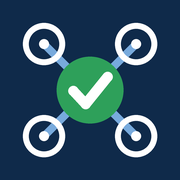
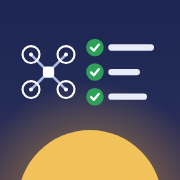
V3.2.3
v3.2.3: new preflight items (phone charged, visual observer, test photo, interference watch), merged GPS and home point item, new icon

diff --git a/index.html b/index.html
@@ -325,7 +325,7 @@
   <div class="header-top">
     <div>
       <h1>UAS Flight Checklists</h1>
-      <p>Free Drone Preflight Checklist · v3.2.2</p>
+      <p>Free Drone Preflight Checklist · v3.2.3</p>
     </div>
   </div>
   <div class="tabs" role="tablist" aria-label="Checklists">
@@ -596,7 +596,7 @@
       <div class="item" onclick="toggle(this)"><div class="check-circle"><svg class="check-icon" viewBox="0 0 12 12" fill="none"><polyline points="2,6 5,9 10,3" stroke="white" stroke-width="2" stroke-linecap="round" stroke-linejoin="round"/></svg></div><div class="item-text">Check NOTAMs at notams.aim.faa.gov — look for notices affecting your flight area</div></div>
       <div class="item" onclick="toggle(this)"><div class="check-circle"><svg class="check-icon" viewBox="0 0 12 12" fill="none"><polyline points="2,6 5,9 10,3" stroke="white" stroke-width="2" stroke-linecap="round" stroke-linejoin="round"/></svg></div><div class="item-text">All batteries fully charged</div></div>
       <div class="item" onclick="toggle(this)"><div class="check-circle"><svg class="check-icon" viewBox="0 0 12 12" fill="none"><polyline points="2,6 5,9 10,3" stroke="white" stroke-width="2" stroke-linecap="round" stroke-linejoin="round"/></svg></div><div class="item-text">Batteries inspected for damage — check for swelling, cracks, or corrosion</div></div>
-      <div class="item" onclick="toggle(this)"><div class="check-circle"><svg class="check-icon" viewBox="0 0 12 12" fill="none"><polyline points="2,6 5,9 10,3" stroke="white" stroke-width="2" stroke-linecap="round" stroke-linejoin="round"/></svg></div><div class="item-text">Controller fully charged</div></div>
+      <div class="item" onclick="toggle(this)"><div class="check-circle"><svg class="check-icon" viewBox="0 0 12 12" fill="none"><polyline points="2,6 5,9 10,3" stroke="white" stroke-width="2" stroke-linecap="round" stroke-linejoin="round"/></svg></div><div class="item-text">Controller and phone/tablet fully charged</div></div>
       <div class="item" onclick="toggle(this)"><div class="check-circle"><svg class="check-icon" viewBox="0 0 12 12" fill="none"><polyline points="2,6 5,9 10,3" stroke="white" stroke-width="2" stroke-linecap="round" stroke-linejoin="round"/></svg></div><div class="item-text">Strobes charged and packed</div></div>
       <div class="item" onclick="toggle(this)"><div class="check-circle"><svg class="check-icon" viewBox="0 0 12 12" fill="none"><polyline points="2,6 5,9 10,3" stroke="white" stroke-width="2" stroke-linecap="round" stroke-linejoin="round"/></svg></div><div class="item-text">Storage ready — confirm sufficient space available on SD card or internal storage</div></div>
       <div class="item" onclick="toggle(this)"><div class="check-circle"><svg class="check-icon" viewBox="0 0 12 12" fill="none"><polyline points="2,6 5,9 10,3" stroke="white" stroke-width="2" stroke-linecap="round" stroke-linejoin="round"/></svg></div><div class="item-text">Remote ID — if your drone requires an external module, confirm it is charged and attached</div></div>
@@ -612,6 +612,7 @@
     <div class="section-card">
       <div class="item" onclick="toggle(this)"><div class="check-circle"><svg class="check-icon" viewBox="0 0 12 12" fill="none"><polyline points="2,6 5,9 10,3" stroke="white" stroke-width="2" stroke-linecap="round" stroke-linejoin="round"/></svg></div><div class="item-text">PPE — put on safety vest, hard hat, steel toe boots as required for this site</div></div>
       <div class="item" onclick="toggle(this)"><div class="check-circle"><svg class="check-icon" viewBox="0 0 12 12" fill="none"><polyline points="2,6 5,9 10,3" stroke="white" stroke-width="2" stroke-linecap="round" stroke-linejoin="round"/></svg></div><div class="item-text">Notify property owner or site contact if applicable</div></div>
+      <div class="item" onclick="toggle(this)"><div class="check-circle"><svg class="check-icon" viewBox="0 0 12 12" fill="none"><polyline points="2,6 5,9 10,3" stroke="white" stroke-width="2" stroke-linecap="round" stroke-linejoin="round"/></svg></div><div class="item-text">Visual observer briefed — if you're using one</div></div>
       <div class="item" onclick="toggle(this)"><div class="check-circle"><svg class="check-icon" viewBox="0 0 12 12" fill="none"><polyline points="2,6 5,9 10,3" stroke="white" stroke-width="2" stroke-linecap="round" stroke-linejoin="round"/></svg></div><div class="item-text">Assess the area — obstacles, people, animals, power lines, trees</div></div>
       <div class="item" onclick="toggle(this)"><div class="check-circle"><svg class="check-icon" viewBox="0 0 12 12" fill="none"><polyline points="2,6 5,9 10,3" stroke="white" stroke-width="2" stroke-linecap="round" stroke-linejoin="round"/></svg></div><div class="item-text">Choose a clear, flat launch spot — away from people and obstacles</div></div>
       <div class="item" onclick="toggle(this)"><div class="check-circle"><svg class="check-icon" viewBox="0 0 12 12" fill="none"><polyline points="2,6 5,9 10,3" stroke="white" stroke-width="2" stroke-linecap="round" stroke-linejoin="round"/></svg></div><div class="item-text">Secondary landing zone identified — know your backup before arming</div></div>
@@ -624,12 +625,13 @@
       <div class="item" onclick="toggle(this)"><div class="check-circle"><svg class="check-icon" viewBox="0 0 12 12" fill="none"><polyline points="2,6 5,9 10,3" stroke="white" stroke-width="2" stroke-linecap="round" stroke-linejoin="round"/></svg></div><div class="item-text">Strobes — attach if flying near dusk, dawn, or low visibility conditions</div></div>
       <div class="item" onclick="toggle(this)"><div class="check-circle"><svg class="check-icon" viewBox="0 0 12 12" fill="none"><polyline points="2,6 5,9 10,3" stroke="white" stroke-width="2" stroke-linecap="round" stroke-linejoin="round"/></svg></div><div class="item-text">Power on controller first, then drone — confirm link established</div></div>
       <div class="item" onclick="toggle(this)"><div class="check-circle"><svg class="check-icon" viewBox="0 0 12 12" fill="none"><polyline points="2,6 5,9 10,3" stroke="white" stroke-width="2" stroke-linecap="round" stroke-linejoin="round"/></svg></div><div class="item-text">Wait 60 seconds for GPS lock — do not rush arming</div></div>
-      <div class="item" onclick="toggle(this)"><div class="check-circle"><svg class="check-icon" viewBox="0 0 12 12" fill="none"><polyline points="2,6 5,9 10,3" stroke="white" stroke-width="2" stroke-linecap="round" stroke-linejoin="round"/></svg></div><div class="item-text">GPS satellite count — confirm strong lock (10+ satellites) before arming</div></div>
+      <div class="item" onclick="toggle(this)"><div class="check-circle"><svg class="check-icon" viewBox="0 0 12 12" fill="none"><polyline points="2,6 5,9 10,3" stroke="white" stroke-width="2" stroke-linecap="round" stroke-linejoin="round"/></svg></div><div class="item-text">GPS satellite count and home point — confirm strong lock (10+ satellites) and that the home point is updated</div></div>
       <div class="item" onclick="toggle(this)"><div class="check-circle"><svg class="check-icon" viewBox="0 0 12 12" fill="none"><polyline points="2,6 5,9 10,3" stroke="white" stroke-width="2" stroke-linecap="round" stroke-linejoin="round"/></svg></div><div class="item-text">Set RTH altitude — above the tallest obstacle in the area</div></div>
       <div class="item" onclick="toggle(this)"><div class="check-circle"><svg class="check-icon" viewBox="0 0 12 12" fill="none"><polyline points="2,6 5,9 10,3" stroke="white" stroke-width="2" stroke-linecap="round" stroke-linejoin="round"/></svg></div><div class="item-text">Confirm active lens — if your drone has multiple cameras, verify the correct lens is selected</div></div>
       <div class="item" onclick="toggle(this)"><div class="check-circle"><svg class="check-icon" viewBox="0 0 12 12" fill="none"><polyline points="2,6 5,9 10,3" stroke="white" stroke-width="2" stroke-linecap="round" stroke-linejoin="round"/></svg></div><div class="item-text">Set camera — resolution, frame rate, exposure mode for the session</div></div>
       <div class="item" onclick="toggle(this)"><div class="check-circle"><svg class="check-icon" viewBox="0 0 12 12" fill="none"><polyline points="2,6 5,9 10,3" stroke="white" stroke-width="2" stroke-linecap="round" stroke-linejoin="round"/></svg></div><div class="item-text">Confirm recording format — color profile (Normal / D-Log / D-Log M) and file type (RAW, JPEG, or RAW+JPEG) set for intended use</div></div>
       <div class="item" onclick="toggle(this)"><div class="check-circle"><svg class="check-icon" viewBox="0 0 12 12" fill="none"><polyline points="2,6 5,9 10,3" stroke="white" stroke-width="2" stroke-linecap="round" stroke-linejoin="round"/></svg></div><div class="item-text">White balance — lock manually before flight; do not leave on Auto</div></div>
+      <div class="item" onclick="toggle(this)"><div class="check-circle"><svg class="check-icon" viewBox="0 0 12 12" fill="none"><polyline points="2,6 5,9 10,3" stroke="white" stroke-width="2" stroke-linecap="round" stroke-linejoin="round"/></svg></div><div class="item-text">Test photo or short clip — confirm it records and the exposure looks right</div></div>
       <div class="item" onclick="toggle(this)"><div class="check-circle"><svg class="check-icon" viewBox="0 0 12 12" fill="none"><polyline points="2,6 5,9 10,3" stroke="white" stroke-width="2" stroke-linecap="round" stroke-linejoin="round"/></svg></div><div class="item-text">Compass calibration — calibrate if in a new location or near large metal structures</div></div>
       <div class="item" onclick="toggle(this)"><div class="check-circle"><svg class="check-icon" viewBox="0 0 12 12" fill="none"><polyline points="2,6 5,9 10,3" stroke="white" stroke-width="2" stroke-linecap="round" stroke-linejoin="round"/></svg></div><div class="item-text">Flight mode — Normal for general flying; Sport only in open areas clear of people and obstacles</div></div>
       <div class="item" onclick="toggle(this)"><div class="check-circle"><svg class="check-icon" viewBox="0 0 12 12" fill="none"><polyline points="2,6 5,9 10,3" stroke="white" stroke-width="2" stroke-linecap="round" stroke-linejoin="round"/></svg></div><div class="item-text">Custom buttons — verify C1, C2 and any other programmable buttons are mapped correctly for this flight</div></div>
@@ -644,6 +646,7 @@
     <div class="section-header">During flight</div>
     <div class="section-card">
       <div class="item" onclick="toggle(this)"><div class="check-circle"><svg class="check-icon" viewBox="0 0 12 12" fill="none"><polyline points="2,6 5,9 10,3" stroke="white" stroke-width="2" stroke-linecap="round" stroke-linejoin="round"/></svg></div><div class="item-text">Hover check at 10ft (3m) — confirm stability, no drift, no warnings · briefly test all four directions (forward, back, left, right) before proceeding</div></div>
+      <div class="item" onclick="toggle(this)"><div class="check-circle"><svg class="check-icon" viewBox="0 0 12 12" fill="none"><polyline points="2,6 5,9 10,3" stroke="white" stroke-width="2" stroke-linecap="round" stroke-linejoin="round"/></svg></div><div class="item-text">Watch signal strength and satellite count for signs of interference</div></div>
       <div class="item" onclick="toggle(this)"><div class="check-circle"><svg class="check-icon" viewBox="0 0 12 12" fill="none"><polyline points="2,6 5,9 10,3" stroke="white" stroke-width="2" stroke-linecap="round" stroke-linejoin="round"/></svg></div><div class="item-text">Check wind at altitude — hover at mission height briefly and confirm conditions before proceeding</div></div>
       <div class="item" onclick="toggle(this)"><div class="check-circle"><svg class="check-icon" viewBox="0 0 12 12" fill="none"><polyline points="2,6 5,9 10,3" stroke="white" stroke-width="2" stroke-linecap="round" stroke-linejoin="round"/></svg></div><div class="item-text">Stay within visual line of sight at all times</div></div>
       <div class="item" onclick="toggle(this)"><div class="check-circle"><svg class="check-icon" viewBox="0 0 12 12" fill="none"><polyline points="2,6 5,9 10,3" stroke="white" stroke-width="2" stroke-linecap="round" stroke-linejoin="round"/></svg></div><div class="item-text">Stay at or below the maximum altitude allowed in your country/region — 400 ft AGL in the US</div></div>

diff --git a/sw.js b/sw.js
@@ -2,7 +2,7 @@
 // Network first: when you're online you always get the newest version.
 // When there's no signal, the last copy that loaded is used instead.
 // Only this site's own files are handled. Weather, radar and search always go to the network.
-const CACHE = 'uas-checklist-v3.2.2';
+const CACHE = 'uas-checklist-v3.2.3';
 const SHELL = ['./', 'index.html', 'manifest.json', 'icon-192.png', 'icon-512.png', 'icon-maskable-512.png', 'apple-touch-icon.png'];
 
 self.addEventListener('install', (e) => {

diff --git a/README.md b/README.md
@@ -25,6 +25,17 @@ A free, mobile-friendly drone preflight checklist web app with live weather cond
 
 ---
 
+## What's new in v3.2.3
+
+A few more preflight checks, and a new look:
+
+- **New checklist items** (General tab) — *Controller and phone/tablet fully charged*, *Visual observer briefed — if you're using one*, *Test photo or short clip — confirm it records and the exposure looks right*, and *Watch signal strength and satellite count for signs of interference*
+- **GPS check merged** — satellite count and home point are now one item: *GPS satellite count and home point — confirm strong lock (10+ satellites) and that the home point is updated*
+- **New app icon** — a dusk sky with a rising sun, a drone and a checklist. On iPhone, delete the Home Screen app and add it again to see it
+- If you've customized your lists, the two reworded items (controller charged, GPS) show up as new items, so you may need to hide or re-tick them once. Your other settings and progress are unchanged
+
+---
+
 ## What's new in v3.2.2
 
 The weather card now tells you when your phone has no signal:
